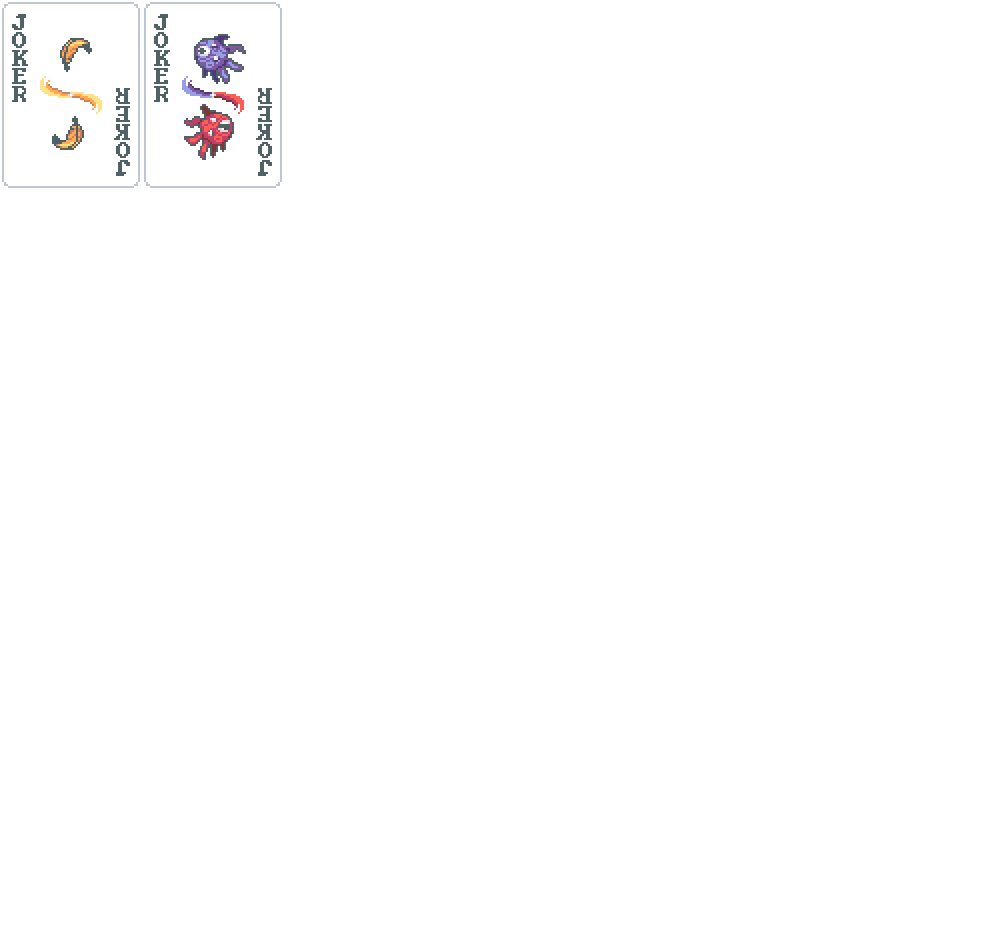
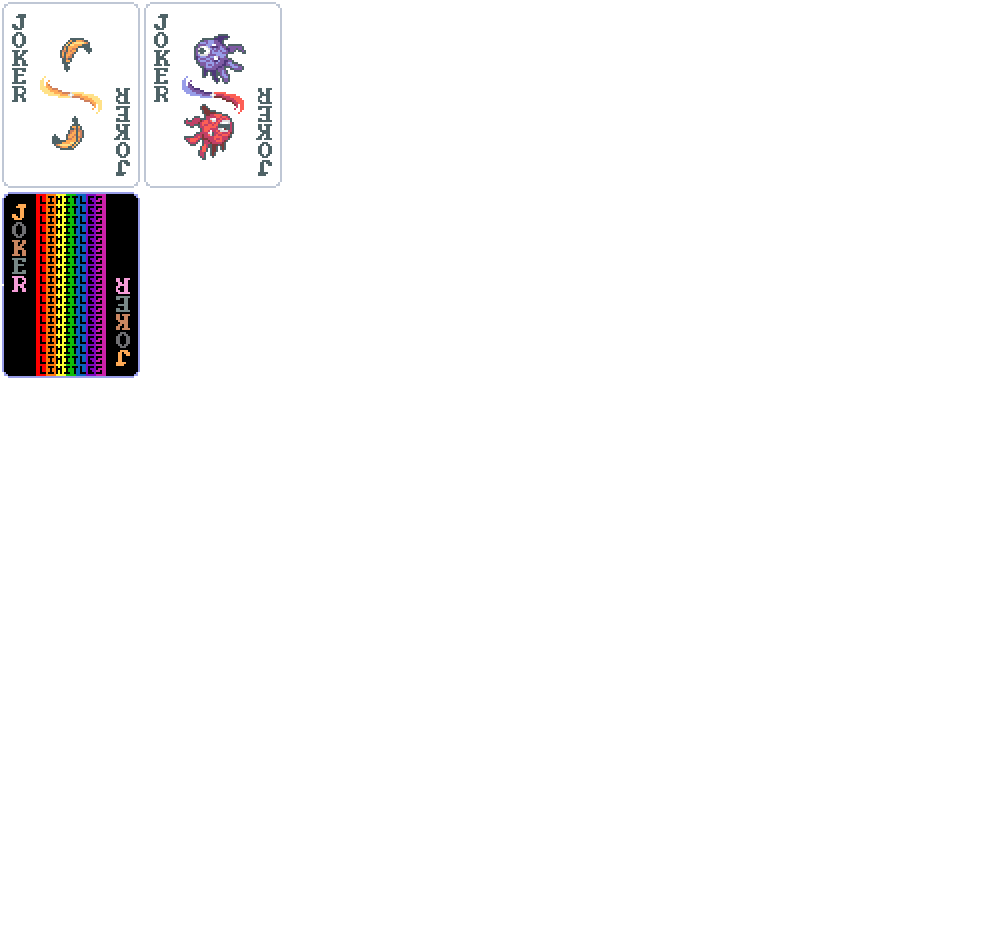
Added Fast Track and Mindfulness voucher, added limitless debug only card

Changed region(s): [[0.0, 0.1832, 0.1559, 0.3968]]

diff --git a/README.md b/README.md
@@ -9,6 +9,18 @@ Summit Deck: Start with 1 Joker Slot. Each Ante gain 1 Joker Slot (if you haven'
 # Jokers
 Seeker: Gives Hang Man if Blind is selected with $4 or less
 Feather: X2 Mult when 0 discards
-Bird: Whenever a Planet card is used, draw 3 cards
+~Bird: Whenever a Planet card is used, draw 3 cards~
+Limitless: (For debug) Rare card that gives 10 million chips after first round with it. Costs $9999
 # Blinds
 None
+# Vouchers
+Fast Track: +1 Ante, -30% blind chips
+Mindfulness (Requires Fast Track): -30% blind chips (again)
+
+
+Blueprint compatibility:
+Seeker: missing
+Feather: missing
+Bird: missing
+
+(Values: Yes, missing, no)
